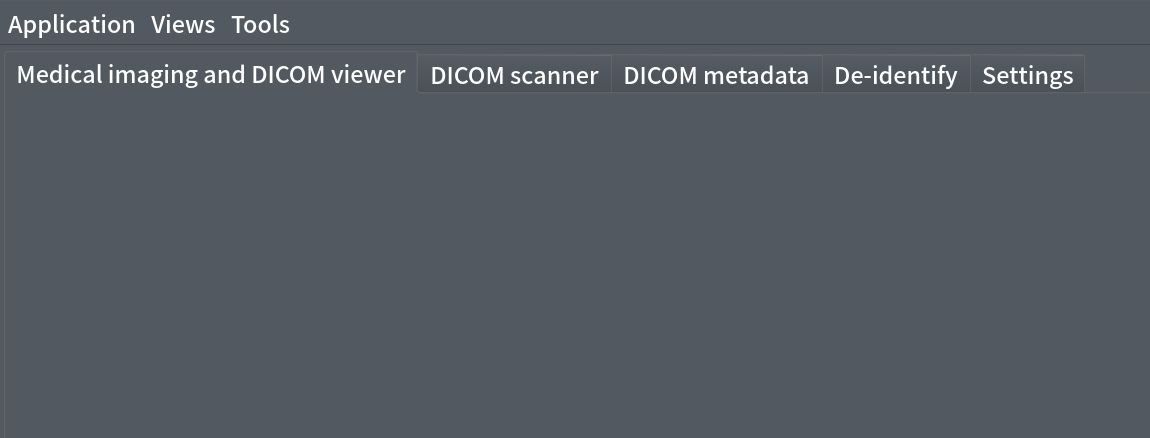
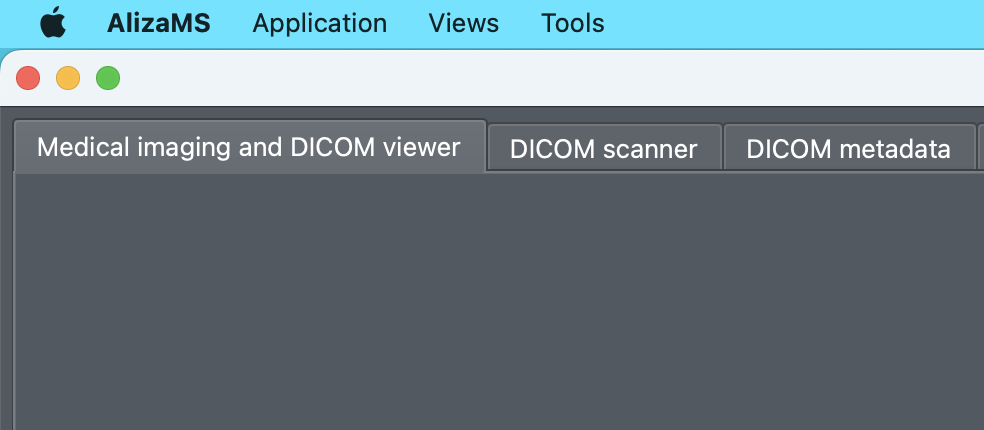
update

Changed region(s): [[0.0, 0.0, 1.0, 0.4233]]

diff --git a/setup_macnative_2022.md b/setup_macnative_2022.md
@@ -12,7 +12,7 @@
 - octave
 - python3
 - Jupyter Notebook (bashとoctaveカーネル含む)
-- AlizaMS
+- Mango
 - MRIcroGL
 - XQuartz
 - FSL
@@ -56,17 +56,17 @@ brew install octave
 octave --version
 ```
 
-- GNU Octave, version x.x.x と表示されればOKです 
+- GNU Octave, version 6.4.0 と表示されればOKです 
 
 ### Python3
 
 #### インストール
-- https://www.python.org/ から Python 3.11.0 をダウンロードします。すでにPython3を使われている方ならあえてアップデートしなくても大丈夫です
+- https://www.python.org/ から Python 3.10.8 をダウンロードしてインストールすることにより、Apple M1/M2でも Python が利用可能となります。(Python 3.11でもかまいません)
 
-- https://www.python.org/ftp/python/3.11.0/python-3.11.0-macos11.pkg
+- https://www.python.org/ftp/python/3.10.8/python-3.10.8-macos11.pkg
 
 #### 確認
-- ターミナルを起動し、以下をタイプしてください。Apple M1/M2の方は、Python 3.10.8以降であれば大丈夫です
+- ターミナルを起動し、以下をタイプしてください。Python 3.10.8 になっていれば大丈夫です
 
 ```
 python3 --version
@@ -93,32 +93,21 @@ jupyter-notebook
 
 - WebブラウザにJupyterという画面が出ればOKです。そのページを消した後、Jupyter Notebookを起動したターミナルで、control + c を押すとJupyter Notebookのサーバーをシャットダウンできますので y を押してシャットダウンしてください
 
-### AlizaMS
+### Mango
 
 #### インストール
-- AlizaMS は以下のリンクからインストーラーを入手できます
-- https://github.com/AlizaMedicalImaging/AlizaMS/releases/download/v1.8.3/AlizaMS-1.8.3.dmg
+- Mango は以下のリンクからインストーラーを入手できます
+- http://ric.uthscsa.edu/mango/downloads/mango_mac.zip
 
 #### 確認
-- アプリケーションから AlizaMS を起動した後に、以下の画面になれば大丈夫です。
-
-![alizams起動画面](img/alizams0.png)
-
-#### 設定
-- AlizaMS のデフォルトはフォントサイズが9ポイントと小さいので、調整します。見た目も明るい色にします
-- 左上の"Application" -> "Settings" を選択します。
-- "Application" タブで、Theme を "Cleanlooks" とします。
-- 同様に、"Application" タブで、"12.0 pt" size for application font とフォントサイズを大きくします。
-
-![alizams設定](img/alizams.png)
-
+- アプリケーションから Mango を起動し、License Agreementが出た後に Mango のメインメニューが出ればOKです
 
 ### MRIcroGL
 
 #### インストール
 - MRIcroGL は以下のリンクからインストーラーを入手できます
 - https://github.com/rordenlab/MRIcroGL/releases/download/v1.2.20220720/MRIcroGL_macOS.dmg
-- インストール後、以下のコマンドを実行し、.bash_profileに設定を書き込みます
+- インストール後、以下のコマンドを実行し、.zprofileに設定を書き込みます。bashの方は.bash_profileに置き換えてください
 
 ```
 echo '' >> ~/.bash_profile
